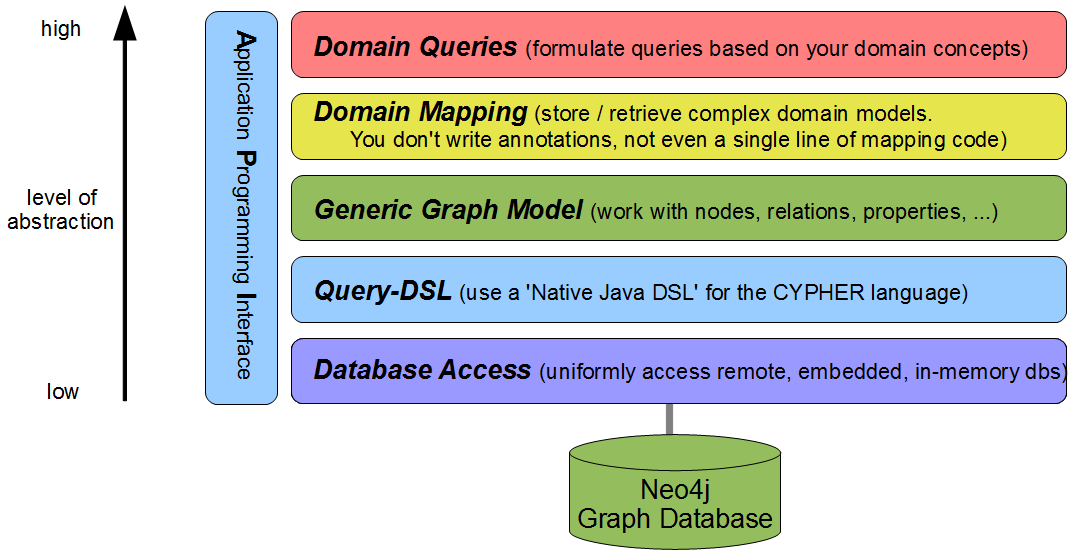
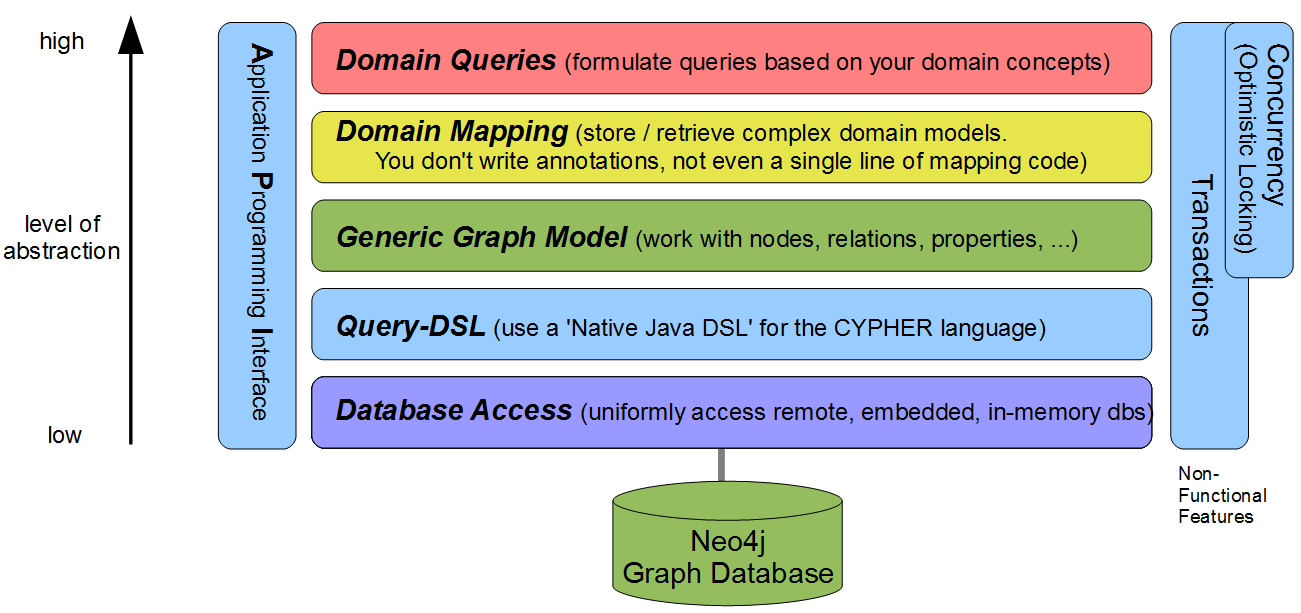
added non functional features

diff --git a/index.html b/index.html
@@ -57,7 +57,7 @@
                 <br/><a class="btn" href="http://www.neo4j.org/">
                 Neo4j</a>
             </td>
-			<td><div align="left"><img alt="" src="intro_overview.png" style="width: 50em; height: 25em;" /></div></td>
+			<td><div align="left"><img alt="" src="intro_overview.png" style="width: 55em; height: 25em;" /></div></td>
             <td class="jc_nav_right"></td>
 		</tr>
 	</tbody>
